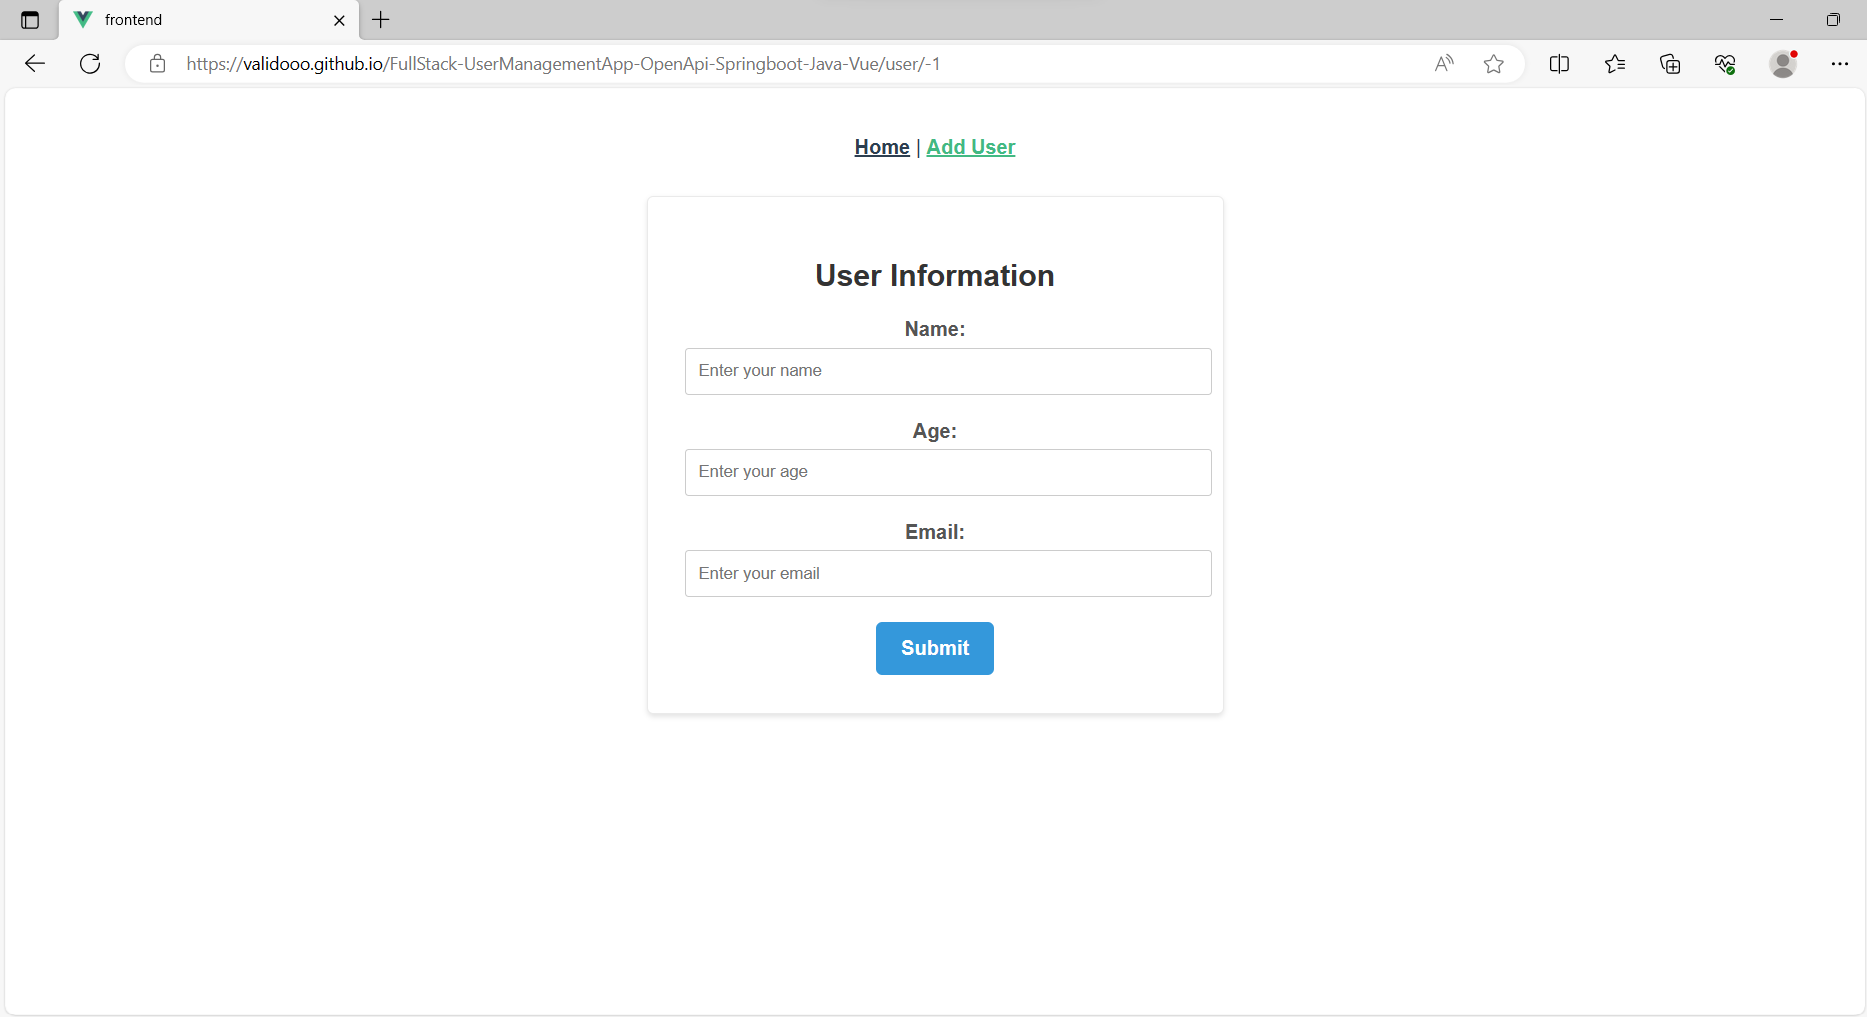
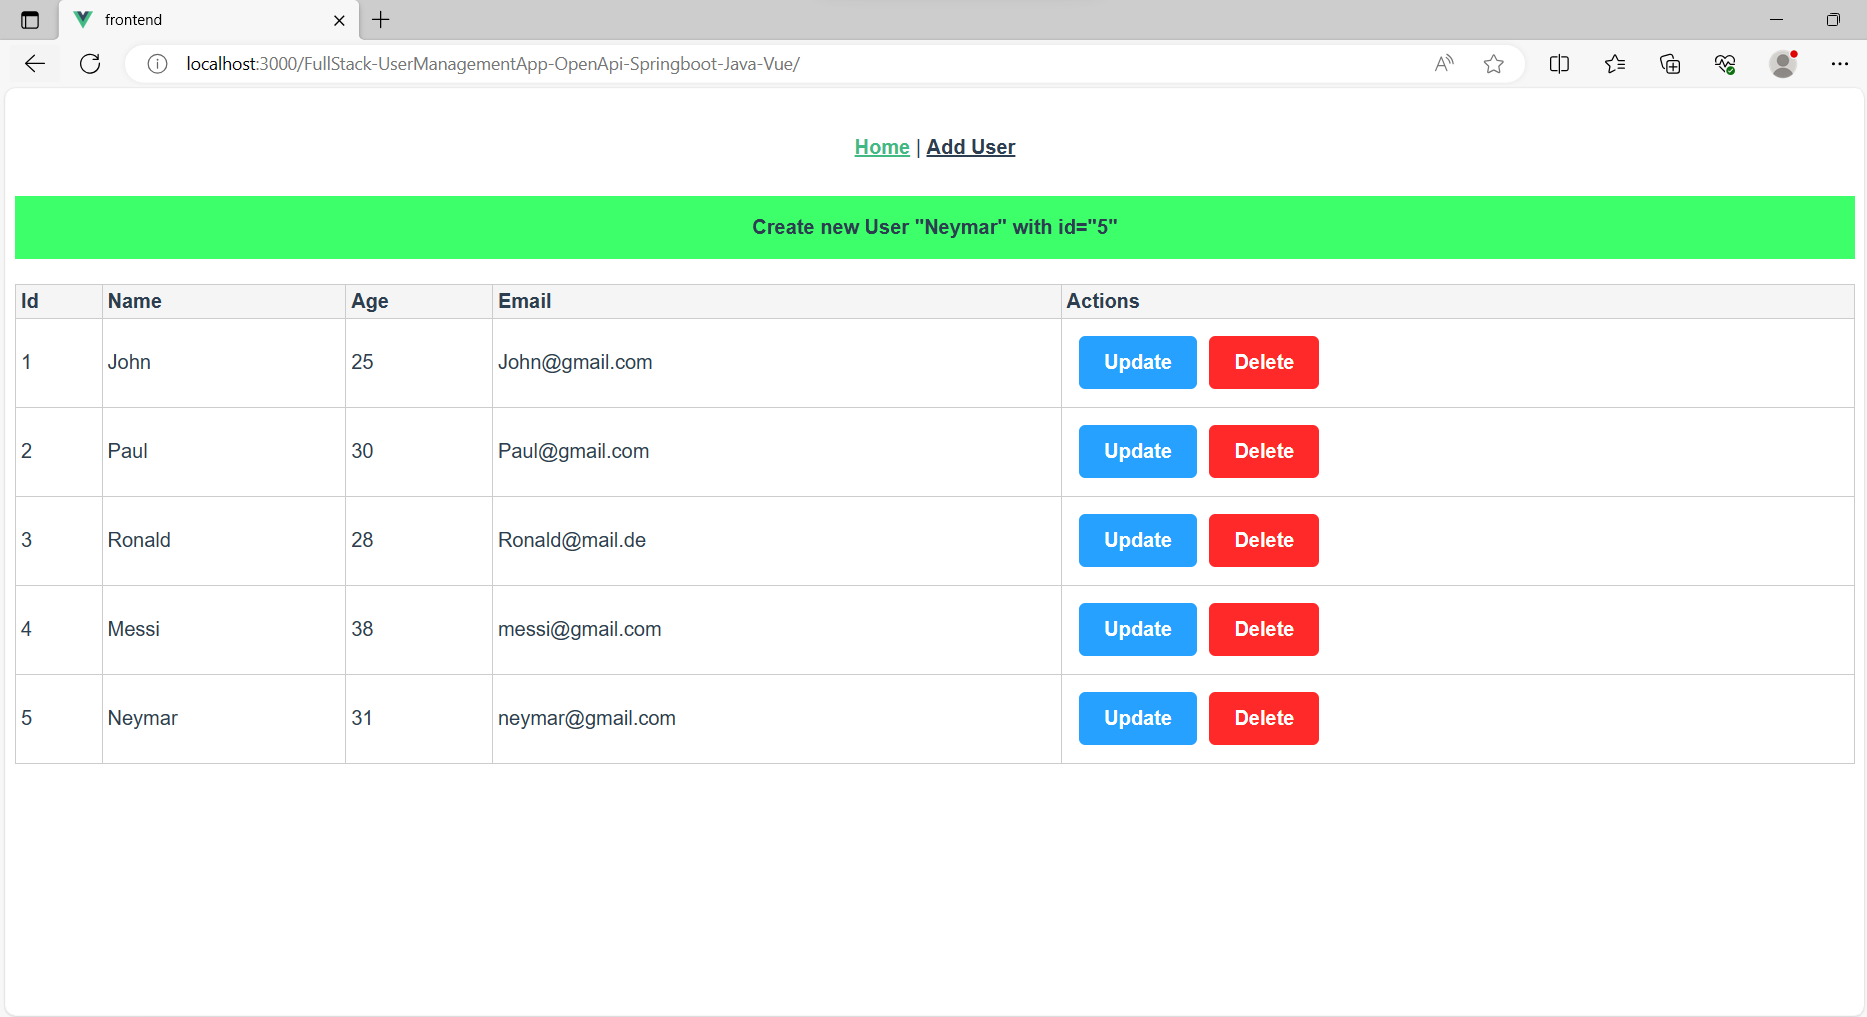
fix user created message bug

diff --git a/frontend/src/views/AddEditUser.vue b/frontend/src/views/AddEditUser.vue
@@ -119,6 +119,7 @@ export default {
             this.age = null;
             this.email = "";
             store.updatedUserId = this.userId;
+            store.newUserCreated= false;
             this.$router.push("/");
           })
           .catch((error) => {
@@ -133,6 +134,7 @@ export default {
         };
         store.user[this.userId - 1] = userDataa;
         store.updatedUserId = this.userId;
+        store.newUserCreated= false;
         this.$router.push("/");
       }
     },
@@ -164,6 +166,7 @@ export default {
           this.age = null;
           this.email = "";
           store.newUserCreated= true;
+          store.updatedUserId = -1;
           this.$router.push("/");
         })
         .catch((error) => {
@@ -179,6 +182,7 @@ export default {
         email: this.email,
       });
       store.newUserCreated= true;
+      store.updatedUserId = -1;
       this.$router.push("/");
     },
   },

diff --git a/frontend/src/views/UserList.vue b/frontend/src/views/UserList.vue
@@ -141,7 +141,7 @@ export default {
     }, checkIfUserCreate(){
       console.log(store.newUserCreated)
 if(store.newUserCreated === true){
-this.message = `Create User "${this.getLastUserCreated().name}" with id="${this.getLastUserCreated().id}"`
+this.message = `Create new User "${this.getLastUserCreated().name}" with id="${this.getLastUserCreated().id}"`
 this.showCreateMessage = true;
 this.removeMessage();
 }
